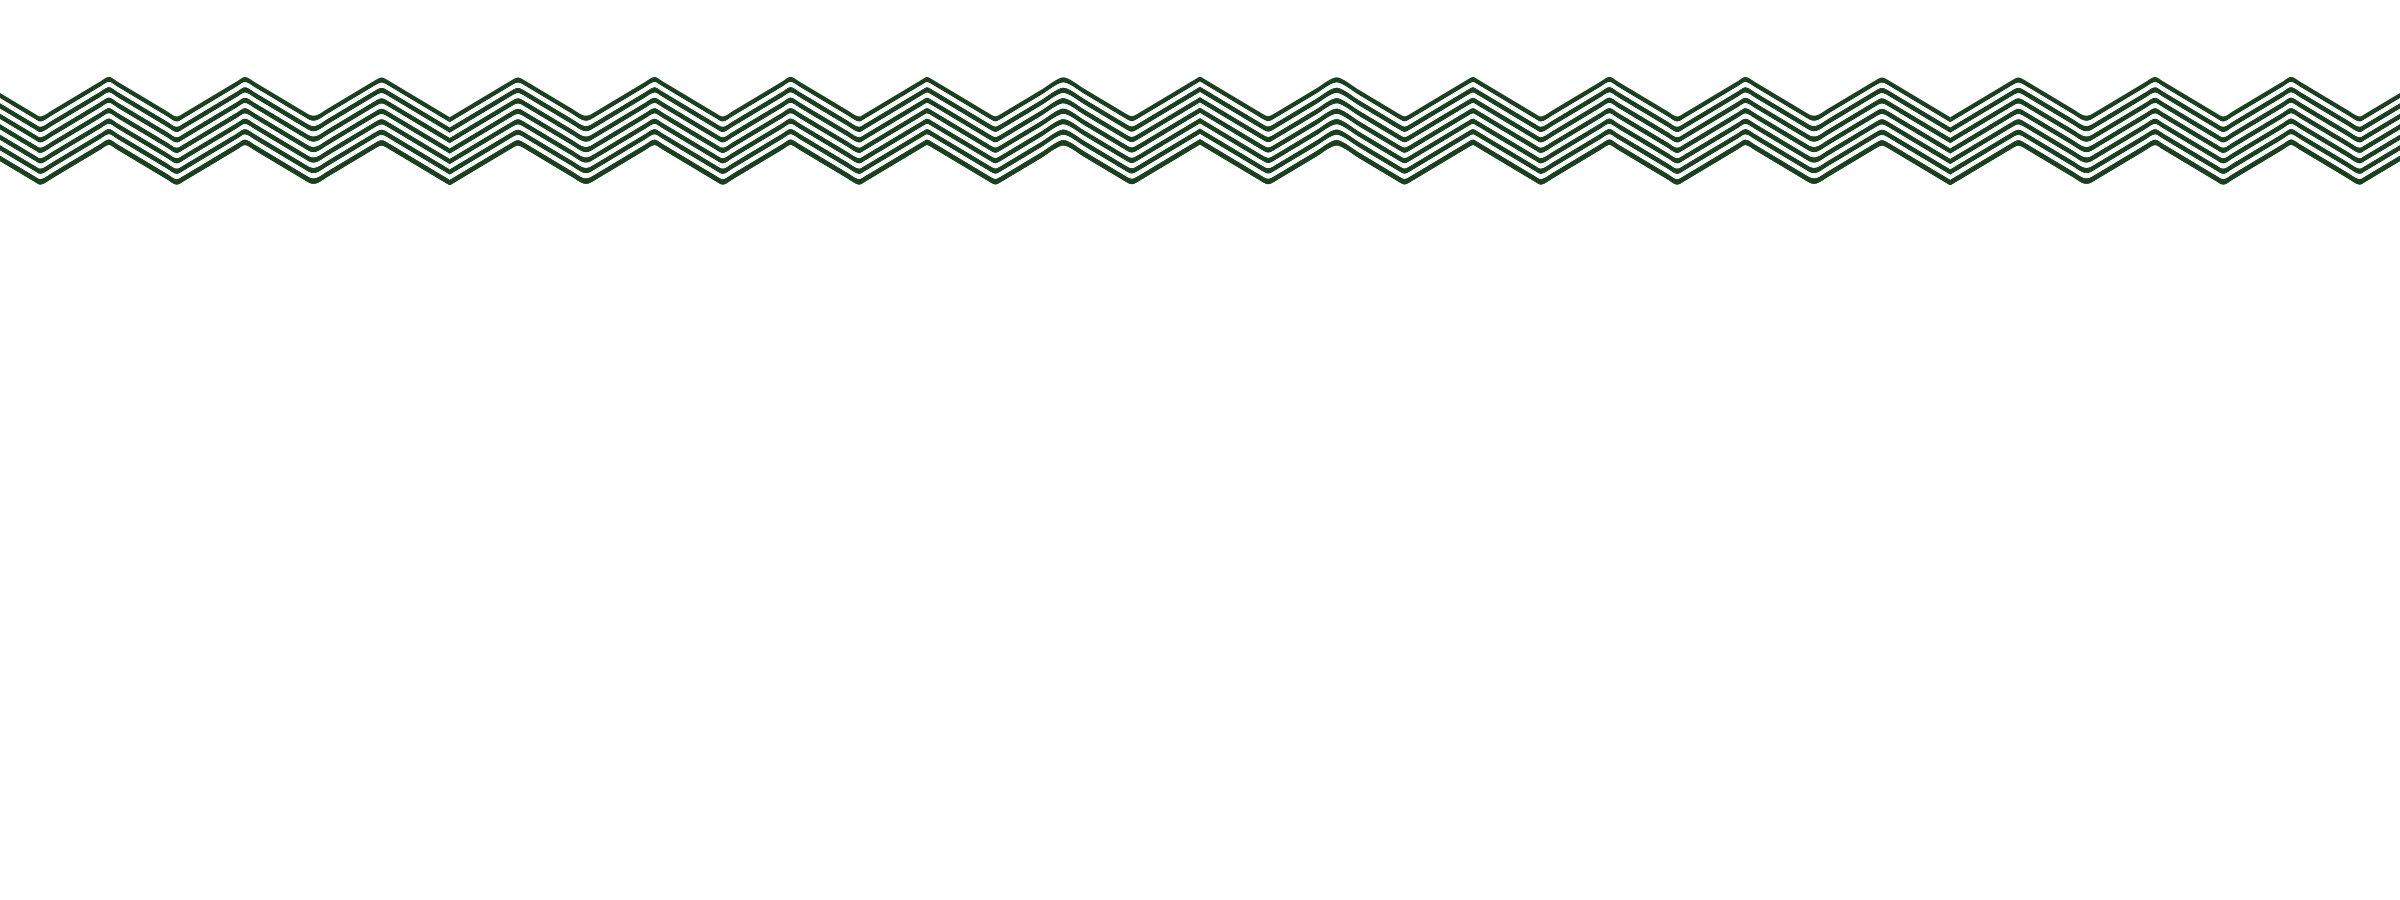
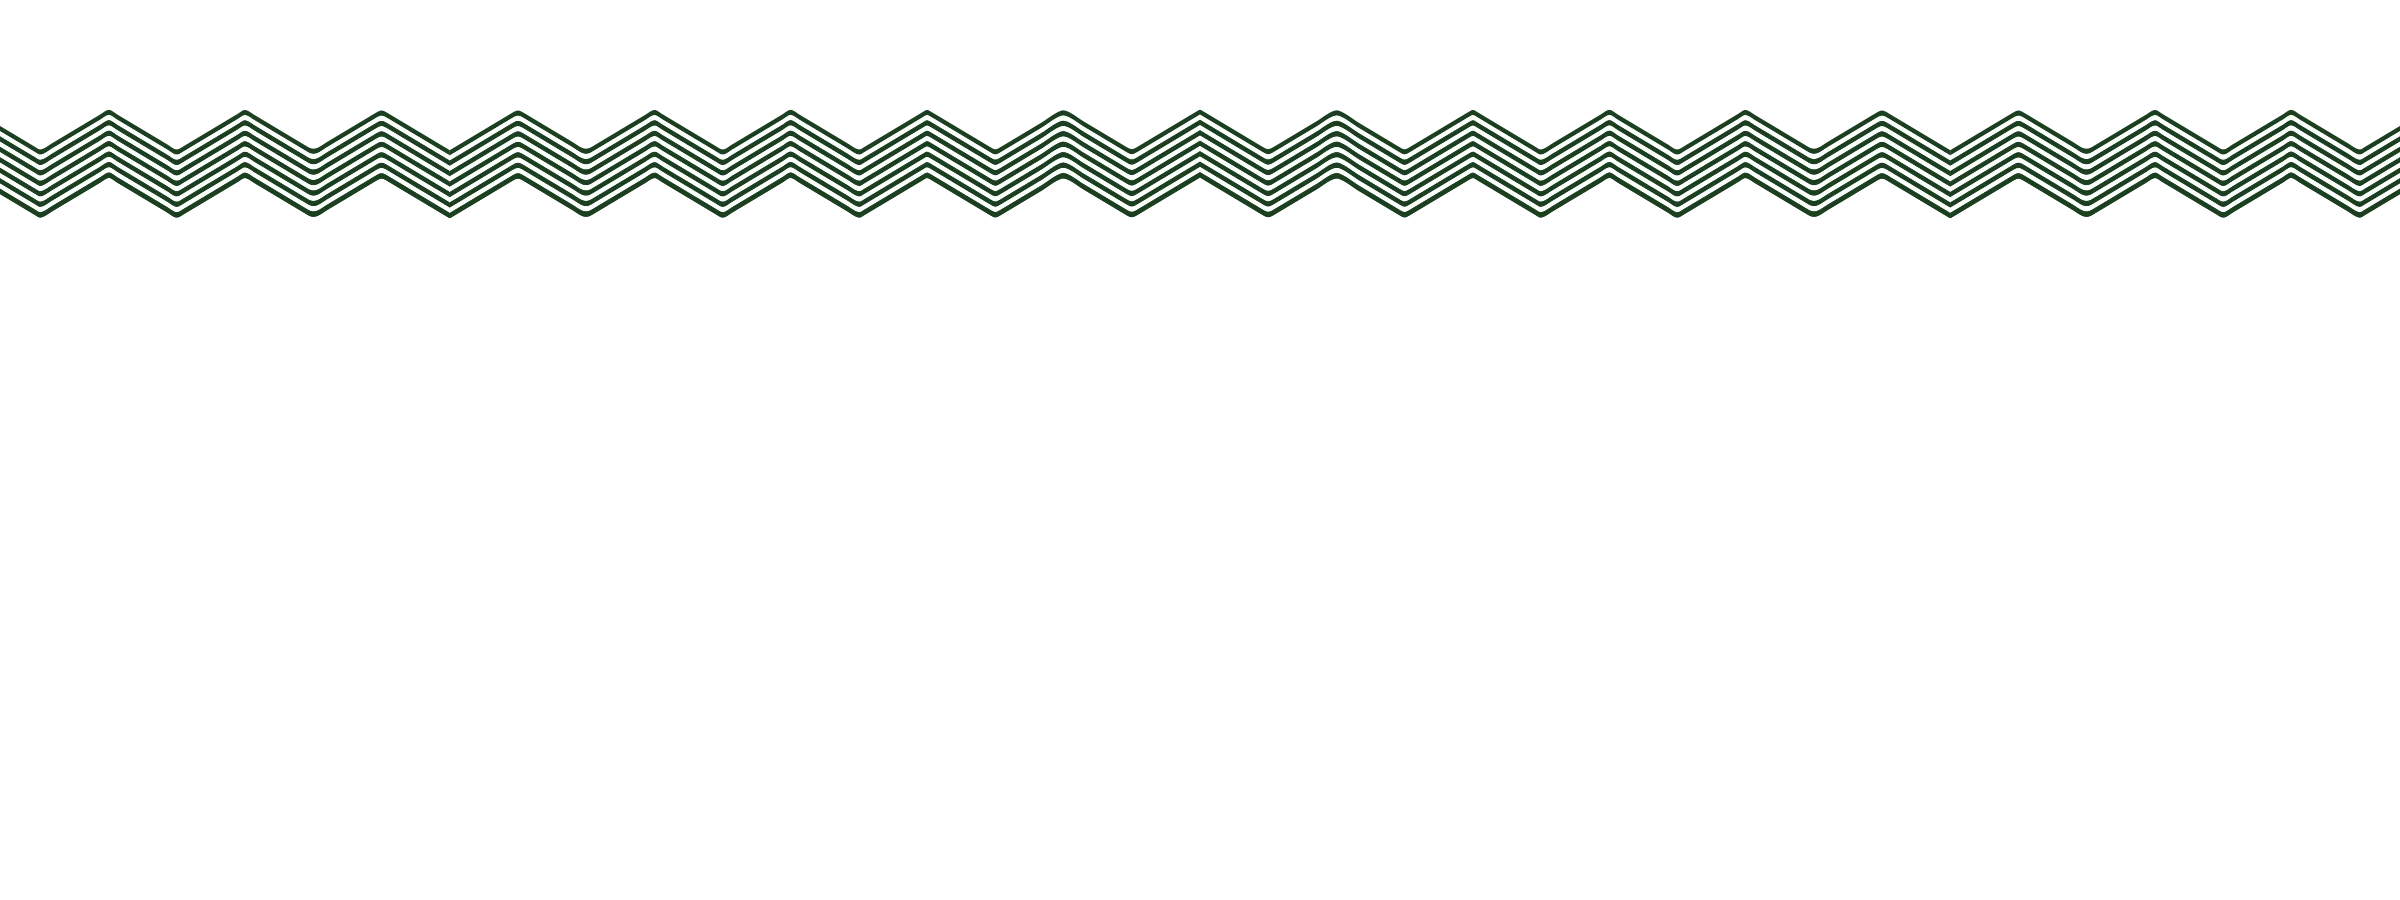
Cabeçalho Aprenda

Changed region(s): [[0.0, 0.0933, 1.0, 0.2489]]

diff --git a/app/aprenda/aprenda.css b/app/aprenda/aprenda.css
@@ -13,14 +13,14 @@
 .learn-intro-copy { padding-top: 1.75rem; }
 .learn-intro-copy > p { color: var(--muted); max-width: 42rem; line-height: 1.75; }
 .learn-intro-copy > p + p { font-size: .875rem; line-height: 1.5rem; color: var(--muted); margin-top: 1.25rem; max-width: 36rem; }
-.learn-intro-home { min-height: 37.5rem; display: flex; align-items: center; padding-block: 4rem; }
+.learn-intro-home { min-height: 33.75rem; display: flex; align-items: center; padding-block: 3.5rem; }
 .learn-intro-home > .learn-intro-grid { width: 100%; }
 .learn-intro-home::before { background-color: var(--forest-900); background-image: var(--learn-header-mobile, url("/assets/aprenda/banners/aprenda-cabecalho-mobile.webp")); background-position: center; background-size: cover; background-repeat: no-repeat; }
 @media (min-width: 640px) {
   .learn-intro-home::before { background-image: var(--learn-header-desktop, url("/assets/aprenda/banners/aprenda-cabecalho-desktop.webp")); }
 }
 @media (min-width: 1024px) {
-  .learn-intro-home { min-height: 30rem; padding-block: 5rem; }
+  .learn-intro-home { min-height: 26.25rem; padding-block: 4rem; }
 }
 .learn-intro-home h1, .learn-intro-home .learn-label { color: var(--white); }
 .learn-intro-home h1 em { color: var(--brand-orange); }
